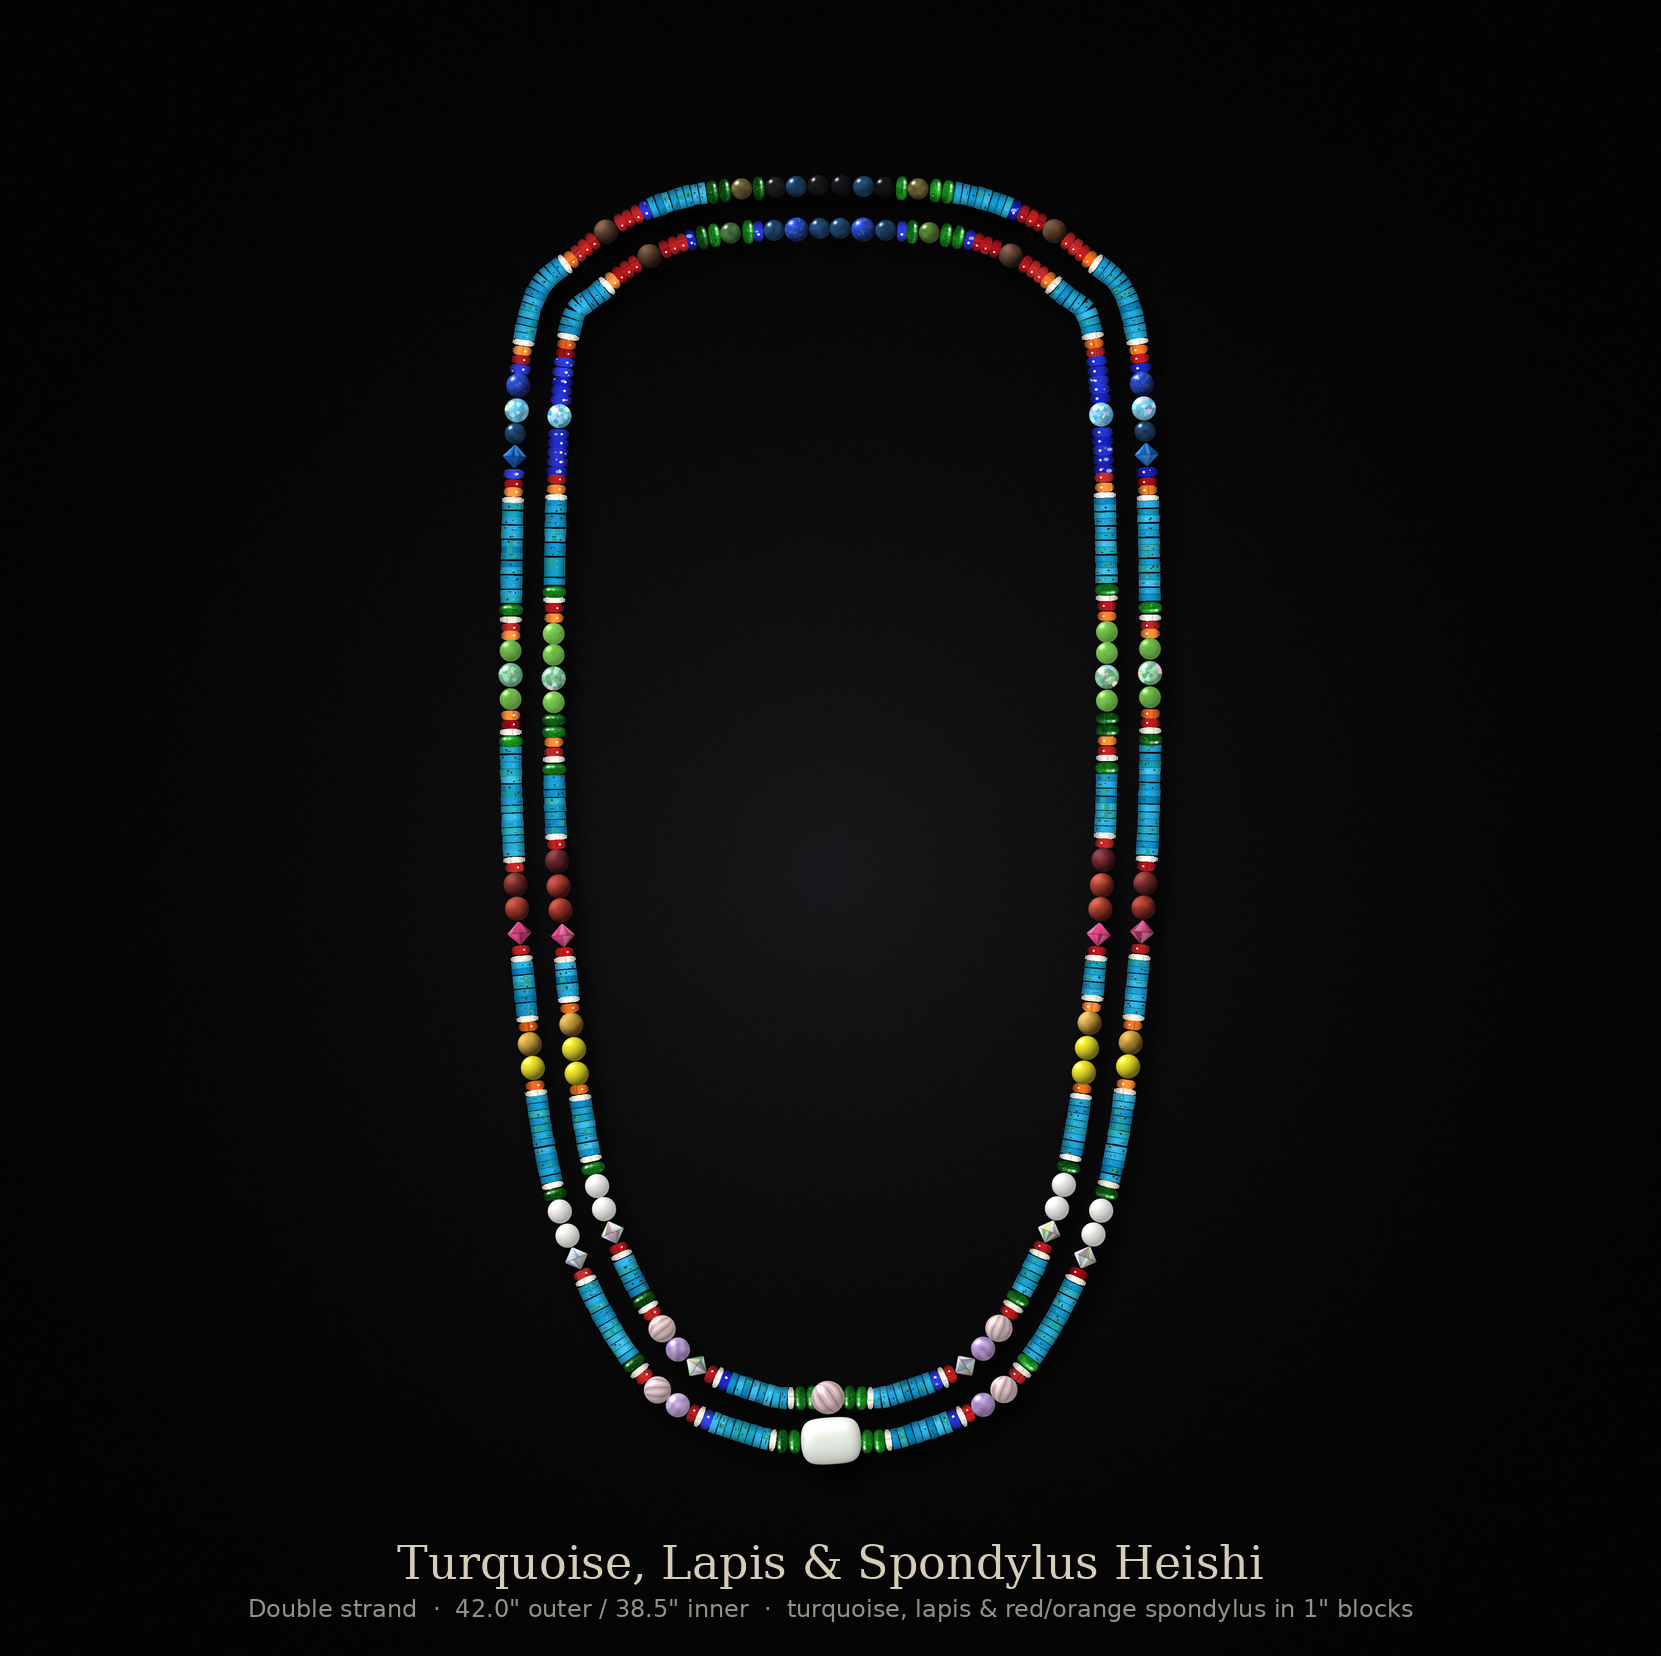
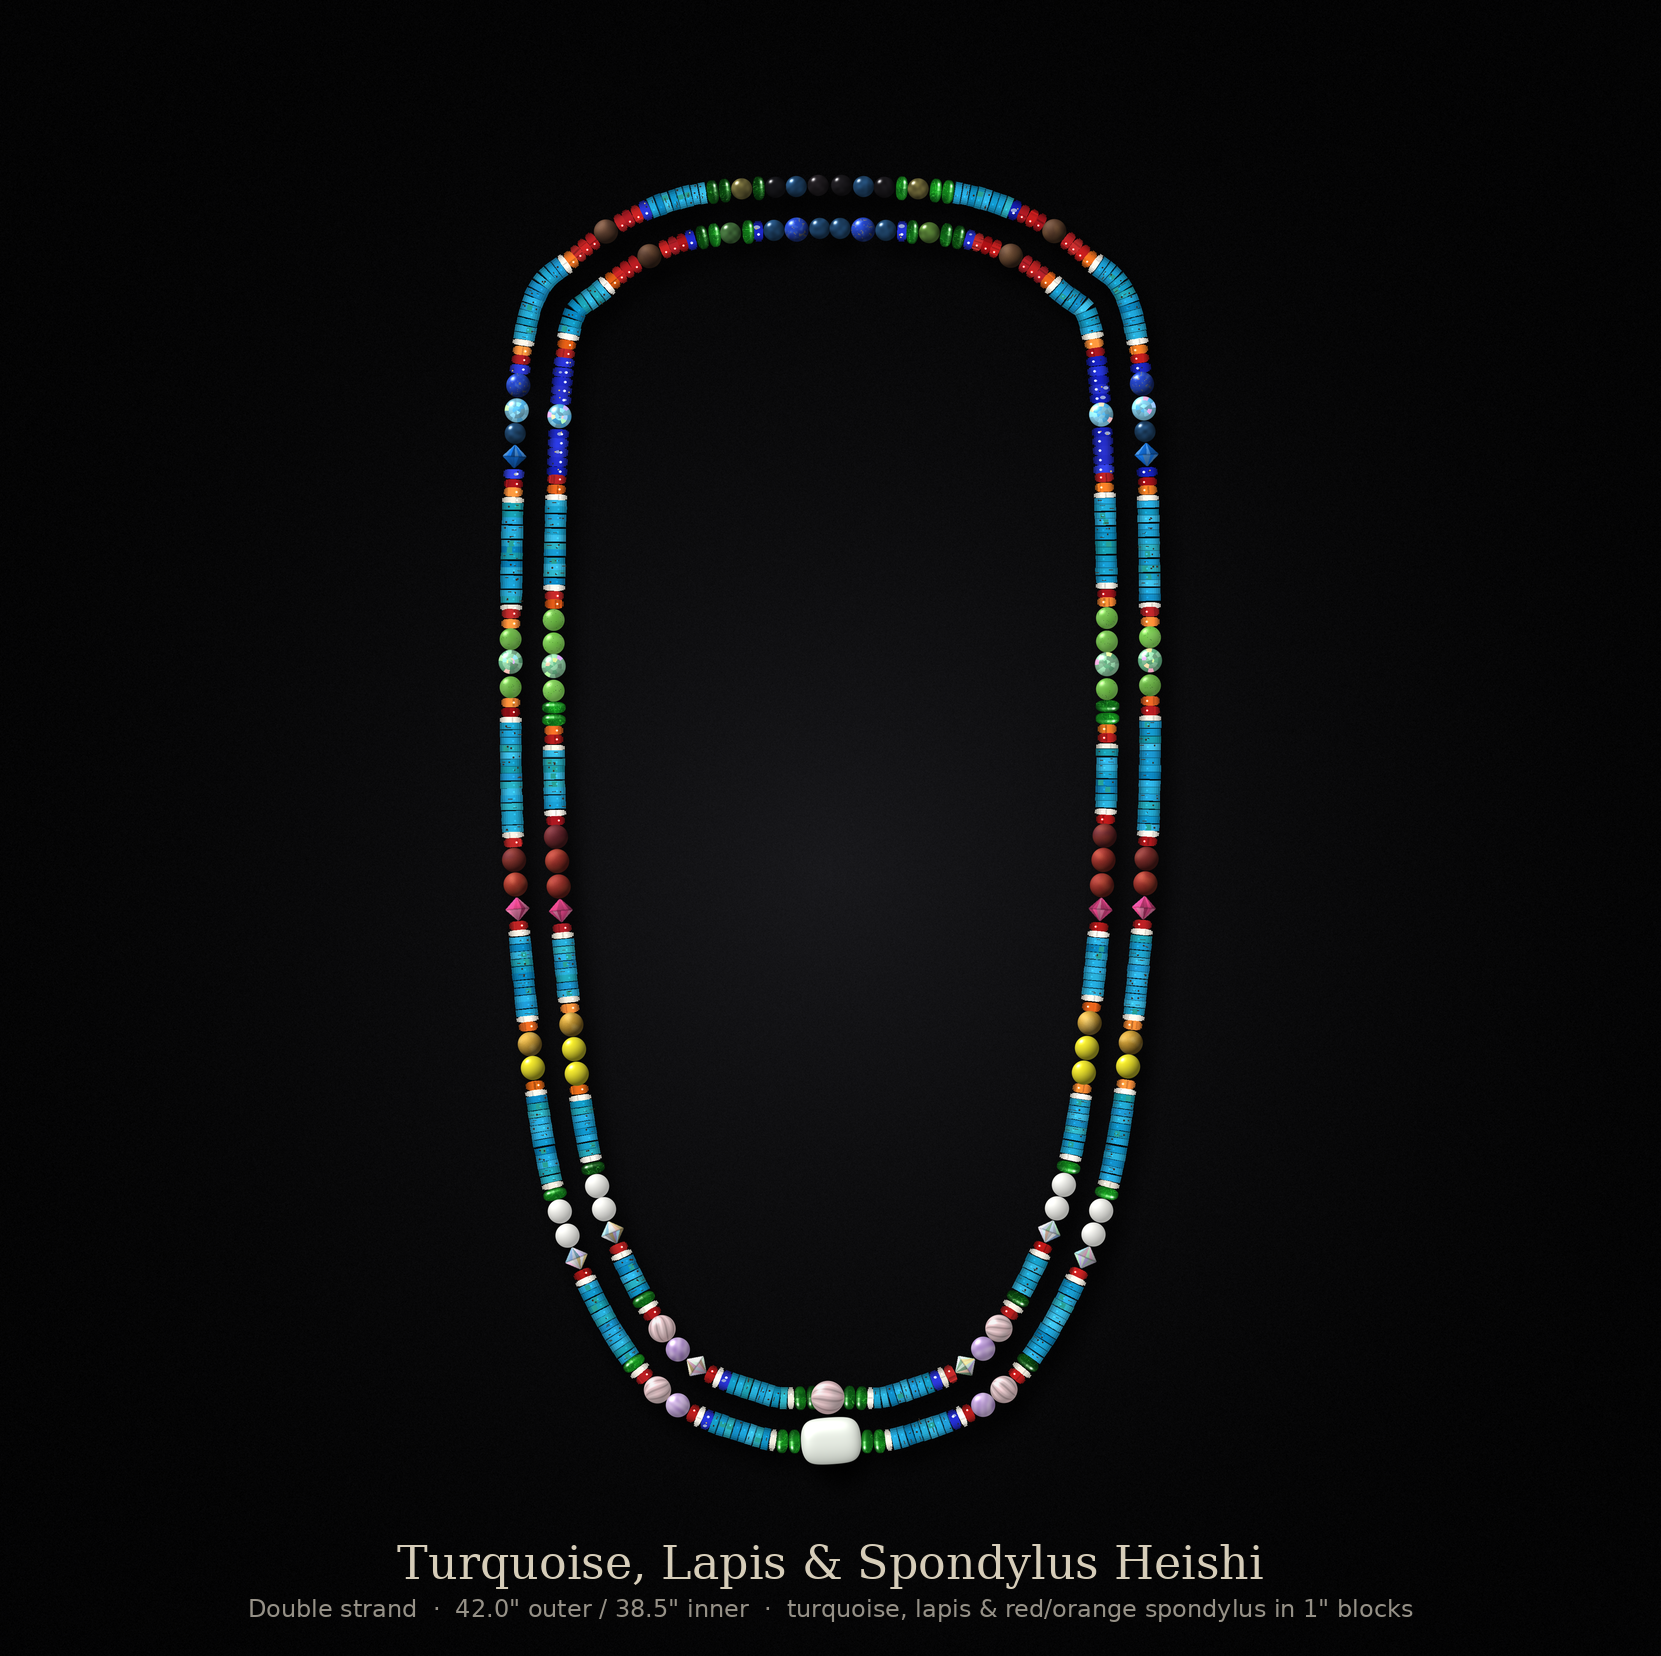
Version 5: green section's outer diopside removed, white touches turquoise; more turquoise between mookaite and yellow
Claude-Session: https://claude.ai/code/session_014be1vF4Rdf8sv9Si75Gudv

diff --git a/necklace/render_necklace.py b/necklace/render_necklace.py
@@ -1485,7 +1485,8 @@ if V4:
                 STN[6][-3:] = ["orange", "conch", "diop"]      # under the yellow: orange against the yellow, green against the turquoise
                 _g = list(STN[4])                              # green section: the diopside next to the orange moves out to the turquoise
                 assert _g[:4] == ["conch", "red", "orange", "diop"] and _g[-4:] == ["diop", "orange", "red", "conch"], _g
-                STN[4] = ["diop", "conch", "red", "orange"] + _g[4:-4] + ["orange", "red", "conch", "diop"]
+                STN[4] = ["conch", "red", "orange"] + _g[4:-4] + ["orange", "red", "conch"]   # outer green border beads removed again:
+                gaps[6] += 2 * SZ["diop"]                      # white touches the turquoise; their room goes to the mookaite-yellow run
                 # trim for a 42" necklace: mookaite, yellow and white sections keep 3 round beads on the inner strand
                 # and 2 on the outer (plus their bicone), with 2 border rondelles at each end (white conch against the turquoise)
                 _old = sum(SZ[k] for i in (5, 6, 7) for k in STN[i])
